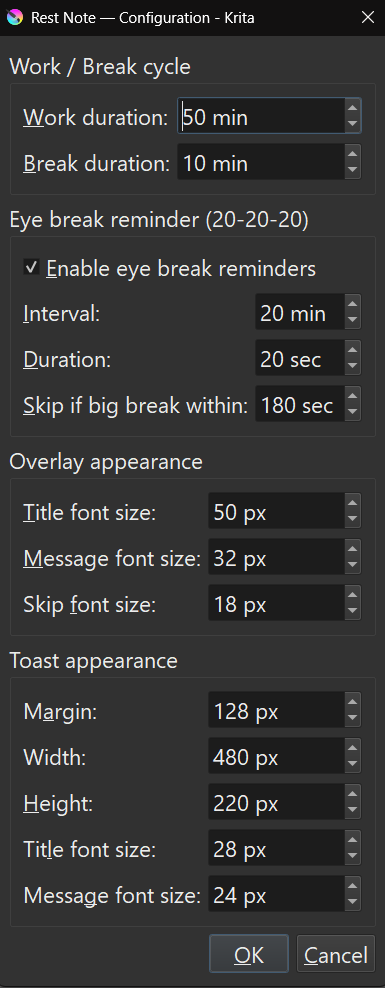
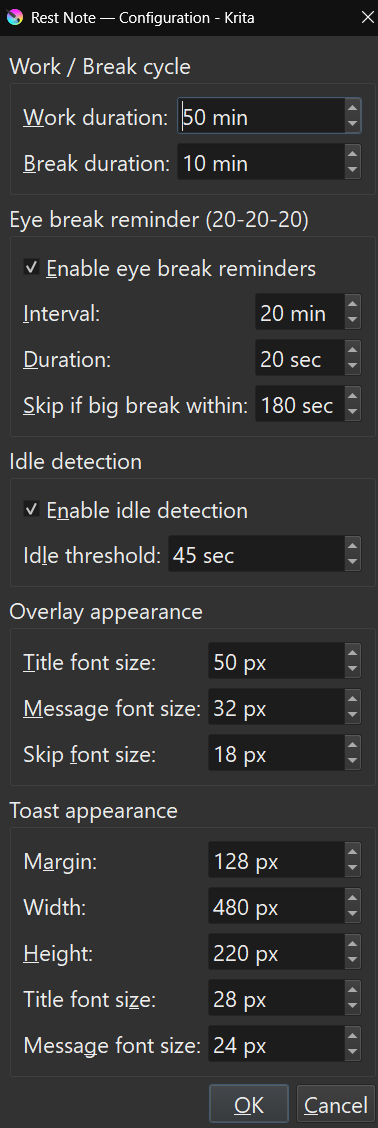
update

diff --git a/rest_note/docker.py b/rest_note/docker.py
@@ -18,6 +18,7 @@ from .config_manager import ConfigManager
 from .config_dialog import ConfigDialog
 from .overlay import CalmBreakOverlay
 from .micro_toast import MicroBreakToast
+from .idle_detector import IdleDetector
 
 from krita import DockWidgetFactoryBase
 
@@ -27,6 +28,7 @@ class RestNoteDockerWidget(QDockWidget):
     STATE_PAUSED = "paused"
     STATE_BREAK = "break"
     STATE_MICRO_BREAK = "micro_break"
+    STATE_IDLE = "idle"
 
     # Font scaling
     TIME_MIN_PT = 14
@@ -52,6 +54,9 @@ class RestNoteDockerWidget(QDockWidget):
 
         self.overlay = None  # CalmBreakOverlay instance
         self.micro_toast = None  # MicroBreakToast instance
+        self.idle_detector = None
+
+        self._apply_idle_config()
 
         # 1-second tick for both timers
         self.tick_timer = QTimer(self)
@@ -176,6 +181,9 @@ class RestNoteDockerWidget(QDockWidget):
 
     # ── Tick: heart of the integration ──
     def _on_tick(self):
+        # 1. Idle detection
+        self._check_idle_transition()
+
         if self.state == self.STATE_RUNNING:
             self.remaining -= 1
 
@@ -205,6 +213,38 @@ class RestNoteDockerWidget(QDockWidget):
         # PAUSED, BREAK: both timers frozen
 
         self._refresh_display()
+
+    # ── Idle handling ──
+    def _apply_idle_config(self):
+        """Create or destroy IdleDetector to match the current config."""
+        if self.config.idle_enabled:
+            if self.idle_detector is None:
+                self.idle_detector = IdleDetector()
+        else:
+            if self.idle_detector is not None:
+                self.idle_detector.destroy()
+                self.idle_detector = None
+            if self.state == self.STATE_IDLE:
+                self.state = self.STATE_RUNNING
+
+    def _check_idle_transition(self):
+        """Auto-transition between RUNNING and IDLE based on user input."""
+        if self.idle_detector is None:
+            return
+
+        idle_sec = self.idle_detector.idle_seconds()
+        threshold = self.config.idle_threshold_seconds
+
+        if self.state == self.STATE_RUNNING:
+            if idle_sec >= threshold:
+                self.state = self.STATE_IDLE
+
+        elif self.state == self.STATE_IDLE:
+            if idle_sec < threshold:
+                self.state = self.STATE_RUNNING
+
+        # PAUSED, BREAK, MICRO_BREAK: idle detection is intentionally
+        # skipped to avoid interfering with explicit user/system states.
 
     # ── Micro break logic ──
     def _maybe_trigger_micro_break(self):
@@ -260,6 +300,8 @@ class RestNoteDockerWidget(QDockWidget):
         self.state = self.STATE_RUNNING
         self.remaining = self.config.work_seconds
         self.micro_remaining = self.config.micro_interval_seconds
+        if self.idle_detector is not None:
+            self.idle_detector.reset()
         self._refresh_display()
 
     # ── Display ──
@@ -282,10 +324,16 @@ class RestNoteDockerWidget(QDockWidget):
         elif self.state == self.STATE_MICRO_BREAK:
             self.status_label.setText("EYE BREAK")
             self.pause_btn.setEnabled(True)
+        elif self.state == self.STATE_IDLE:
+            self.status_label.setText("IDLE")
+            self.pause_btn.setIcon(self._icon_pause)
+            self.pause_btn.setEnabled(True)
 
         # Sub-label: next eye break info
-        if not self.config.micro_enabled:
-            self.sub_label.setText("Eye break: disabled")
+        if self.state == self.STATE_IDLE:
+            self.sub_label.setText("Away — timer paused")
+        elif not self.config.micro_enabled:
+            self.sub_label.setText("Eye breaks: disabled")
         elif self.state == self.STATE_BREAK:
             self.sub_label.setText("—")
         elif self.state == self.STATE_MICRO_BREAK:
@@ -300,6 +348,8 @@ class RestNoteDockerWidget(QDockWidget):
             self.state = self.STATE_PAUSED
         elif self.state == self.STATE_PAUSED:
             self.state = self.STATE_RUNNING
+            if self.idle_detector is not None:
+                self.idle_detector.reset()
         elif self.state == self.STATE_MICRO_BREAK:
             # Pause during micro: cancel toast, freeze timers
             if self.micro_toast is not None:
@@ -319,12 +369,15 @@ class RestNoteDockerWidget(QDockWidget):
         self.state = self.STATE_RUNNING
         self.remaining = self.config.work_seconds
         self.micro_remaining = self.config.micro_interval_seconds
+        if self.idle_detector is not None:
+            self.idle_detector.reset()
         self._refresh_display()
 
     def _on_config_clicked(self):
         dialog = ConfigDialog(self.config, parent=self.widget())
         if dialog.exec_():
             dialog.apply_to_config()
+            self._apply_idle_config()
             # 進行中の作業はなるべく邪魔しない方針
             if self.state == self.STATE_RUNNING:
                 if self.remaining > self.config.work_seconds:

diff --git a/rest_note/config_dialog.py b/rest_note/config_dialog.py
@@ -73,6 +73,30 @@ class ConfigDialog(QDialog):
 
         self._update_micro_enabled(self.micro_enable.isChecked())
 
+        # ── Idle detection group ──
+        idle_group = QGroupBox("Idle detection")
+        idle_layout = QVBoxLayout(idle_group)
+
+        self.idle_enable = QCheckBox("Enable idle detection")
+        self.idle_enable.setChecked(self.config.idle_enabled)
+        self.idle_enable.setToolTip(
+            "Pause the work timer automatically when no input is detected."
+        )
+        self.idle_enable.toggled.connect(self._update_idle_enabled)
+        idle_layout.addWidget(self.idle_enable)
+
+        idle_form = QFormLayout()
+        self.idle_threshold_spin = QSpinBox()
+        self.idle_threshold_spin.setRange(5, 3600)
+        self.idle_threshold_spin.setSuffix(" sec")
+        self.idle_threshold_spin.setValue(self.config.idle_threshold_seconds)
+        idle_form.addRow("Idle threshold:", self.idle_threshold_spin)
+        idle_layout.addLayout(idle_form)
+
+        outer.addWidget(idle_group)
+
+        self._update_idle_enabled(self.idle_enable.isChecked())
+
         # ── Overlay appearance group ──
         overlay_group = QGroupBox("Overlay appearance")
         overlay_form = QFormLayout(overlay_group)
@@ -144,6 +168,9 @@ class ConfigDialog(QDialog):
         self.micro_duration_spin.setEnabled(enabled)
         self.micro_skip_spin.setEnabled(enabled)
 
+    def _update_idle_enabled(self, enabled):
+        self.idle_threshold_spin.setEnabled(enabled)
+
     def apply_to_config(self):
         self.config.work_minutes = self.work_spin.value()
         self.config.break_minutes = self.break_spin.value()
@@ -151,6 +178,8 @@ class ConfigDialog(QDialog):
         self.config.micro_interval_minutes = self.micro_interval_spin.value()
         self.config.micro_duration_seconds = self.micro_duration_spin.value()
         self.config.micro_skip_threshold = self.micro_skip_spin.value()
+        self.config.idle_enabled = self.idle_enable.isChecked()
+        self.config.idle_threshold_seconds = self.idle_threshold_spin.value()
         self.config.micro_toast_margin = self.toast_margin_spin.value()
         self.config.micro_toast_width = self.toast_width_spin.value()
         self.config.micro_toast_height = self.toast_height_spin.value()

diff --git a/rest_note/idle_detector.py b/rest_note/idle_detector.py
@@ -1,0 +1,48 @@
+"""
+Qt-based idle detector.
+Monitors user input events inside the Krita application.
+
+Note: This only detects inactivity inside Krita's windows.
+Activity in other applications (browser, etc.) is counted as idle.
+"""
+
+from PyQt5.QtCore import QObject, QEvent, QTime
+from PyQt5.QtWidgets import QApplication
+
+
+class IdleDetector(QObject):
+    """
+    Tracks the time elapsed since the last user input
+    inside the Krita application.
+    """
+
+    def __init__(self):
+        super().__init__()
+        self._last_activity = QTime.currentTime()
+        QApplication.instance().installEventFilter(self)
+
+    def eventFilter(self, obj, event):
+        if event.type() in (
+            QEvent.MouseMove,
+            QEvent.MouseButtonPress,
+            QEvent.MouseButtonRelease,
+            QEvent.KeyPress,
+            QEvent.KeyRelease,
+            QEvent.Wheel,
+            QEvent.TabletMove,
+            QEvent.TabletPress,
+        ):
+            self._last_activity = QTime.currentTime()
+        return False  # Don't consume the event
+
+    def idle_seconds(self):
+        """Seconds since last detected input."""
+        return self._last_activity.secsTo(QTime.currentTime())
+
+    def reset(self):
+        """Manually mark 'now' as the last activity time."""
+        self._last_activity = QTime.currentTime()
+
+    def destroy(self):
+        """Remove the event filter and detach from the application."""
+        QApplication.instance().removeEventFilter(self)

diff --git a/rest_note/config_manager.py b/rest_note/config_manager.py
@@ -8,6 +8,8 @@ DEFAULT_CONFIG = {
     "micro_break_interval_minutes": 20,
     "micro_break_duration_seconds": 20,
     "micro_skip_threshold_seconds": 180,  # 大休憩が3分以内ならスキップ
+    "idle_enabled": True,
+    "idle_threshold_seconds": 45,
     "micro_toast_margin": 128,
     "micro_toast_width": 480,
     "micro_toast_height": 220,
@@ -106,6 +108,23 @@ class ConfigManager:
     @micro_skip_threshold.setter
     def micro_skip_threshold(self, value):
         self._data["micro_skip_threshold_seconds"] = int(value)
+
+    # ── Idle detection ──
+    @property
+    def idle_enabled(self):
+        return bool(self._data.get("idle_enabled", True))
+
+    @idle_enabled.setter
+    def idle_enabled(self, value):
+        self._data["idle_enabled"] = bool(value)
+
+    @property
+    def idle_threshold_seconds(self):
+        return int(self._data.get("idle_threshold_seconds", 30))
+
+    @idle_threshold_seconds.setter
+    def idle_threshold_seconds(self, value):
+        self._data["idle_threshold_seconds"] = int(value)
 
     # ── Toast appearance ──
     @property

diff --git a/README.md b/README.md
@@ -8,8 +8,9 @@ Rest Note combines two complementary timers: a configurable work cycle that trig
 
 ## Features
 
-- **Scheduled work breaks** — A configurable cycle (default: 50 minutes work / 10 minutes break) that takes over your screen with a slow-fading overlay. The "Resume work" button only becomes clickable after the full break duration has elapsed.
+- **Scheduled work breaks** — A configurable cycle (default: 50 minutes work / 10 minutes break) that takes over your screen with a slow-fading overlay. The "Resume work" button only becomes clickable after the full break duration has elapsed. A "Skip" button allows immediate dismissal.
 - **20-20-20 eye break reminders** — Optional periodic micro-breaks following the well-known [20-20-20 rule](https://www.aao.org/eye-health/tips-prevention/computer-usage): every 20 minutes, look ~6 meters away for 20 seconds. A small toast appears in the corner of the screen without blocking input.
+- **Idle detection** — Automatically pauses the work timer when no keyboard, mouse, or tablet input is detected inside Krita for a configurable duration. Resumes seamlessly when input returns.
 - **Responsive docker UI** — Time and status labels scale dynamically with the docker widget size.
 - **Pause / Reset / Config controls** — Standard timer controls directly in the docker.
 - **Persistent settings** — Configuration is stored in `config/main.json` inside the plugin directory.
@@ -53,6 +54,7 @@ Once enabled, the timer starts automatically when Krita launches. The docker sho
 | `PAUSED` | Both timers are frozen. |
 | `ON BREAK` | Fullscreen break overlay is active. |
 | `EYE BREAK` | A 20-second eye break toast is currently shown. |
+| `IDLE` | No input detected — work timer is paused until activity resumes. |
 
 ---
 
@@ -60,4 +62,45 @@ Once enabled, the timer starts automatically when Krita launches. The docker sho
 
 ![alt text](images/config.png)
 
-Click the **Config** button to open the settings dialog. All settings are saved immediately to `config/main.json`.
+Click the **Config** button to open the settings dialog. All settings are saved to `config/main.json` when you click **OK**.
+
+### Work / Break cycle
+
+| Setting | Description |
+|---|---|
+| **Work duration** | How long the work timer runs before triggering a full break (default: 50 min). |
+| **Break duration** | How long the break overlay stays active before the "Resume work" button becomes clickable (default: 10 min). |
+
+### Eye break reminder (20-20-20)
+
+| Setting | Description |
+|---|---|
+| **Enable eye break reminders** | Turns the 20-20-20 toast on or off. |
+| **Interval** | How often the eye break reminder appears (default: 20 min). |
+| **Duration** | How long the eye break toast stays visible (default: 20 sec). |
+| **Skip if big break within** | Suppresses the eye break toast if the next full break is sooner than this threshold, to avoid back-to-back interruptions (default: 180 sec). |
+
+### Idle detection
+
+| Setting | Description |
+|---|---|
+| **Enable idle detection** | When enabled, the work timer pauses automatically if no input is detected inside Krita. Resumes when activity returns. |
+| **Idle threshold** | Seconds of inactivity required before the timer is paused (default: 45 sec). |
+
+### Overlay appearance
+
+| Setting | Description |
+|---|---|
+| **Title font size** | Font size of the "Time for a break" heading in the break overlay (default: 50 px). |
+| **Message font size** | Font size of the break duration message below the heading (default: 32 px). |
+| **Skip font size** | Font size of the "Skip" button that dismisses the overlay immediately (default: 18 px). |
+
+### Toast appearance
+
+| Setting | Description |
+|---|---|
+| **Margin** | Distance from the screen edge where the toast is positioned (default: 128 px). |
+| **Width** | Width of the eye break toast window (default: 480 px). |
+| **Height** | Height of the eye break toast window (default: 220 px). |
+| **Title font size** | Font size of the "Eye break" heading inside the toast (default: 28 px). |
+| **Message font size** | Font size of the instruction text inside the toast (default: 24 px). |
